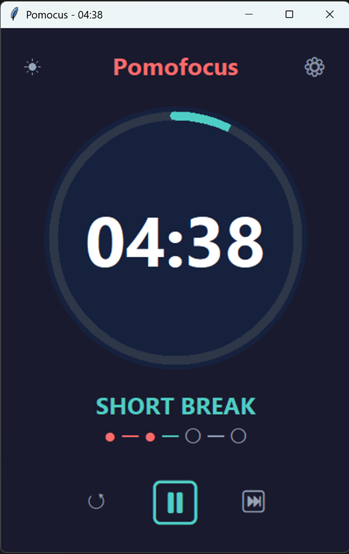
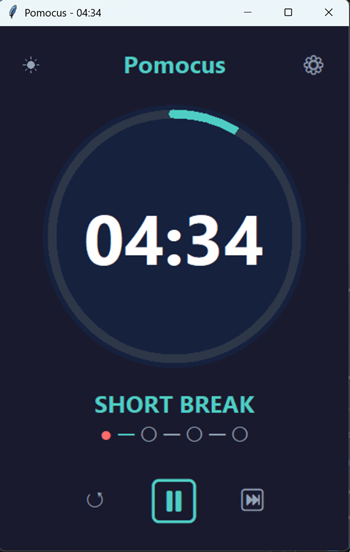
update readme and screenshots

diff --git a/src/ui.py b/src/ui.py
@@ -422,7 +422,7 @@ class PomocusUI:
         ToolTip(self.settings_btn, "Settings")
     
         # App Title (Centered Top)
-        self.title_label = tk.Label(self.root, text="Pomofocus", font=('Segoe UI', 20, 'bold'),
+        self.title_label = tk.Label(self.root, text="Pomocus", font=('Segoe UI', 20, 'bold'),
                                    bg=bg, fg=self.COLORS['work'])
         self.title_label.place(relx=0.5, y=42, anchor='center')
 
@@ -518,7 +518,6 @@ class PomocusUI:
         if self.logic:
             self._update_display()
 
-    
 
     
     def _on_resize(self, event):
@@ -595,10 +594,8 @@ class PomocusUI:
         self.start_button.config(text="▶")
         self._play_notification()
         self._flash_window()
-        
-        # Alerts removed as requested
-        # UI automatically updates via _on_mode_change
-    
+
+
     def _on_mode_change(self, mode: str):
         """Called when mode changes"""
         mode_config = {
@@ -606,13 +603,18 @@ class PomocusUI:
             'short_break': ("SHORT BREAK", self.COLORS['short_break']),
             'long_break': ("LONG BREAK", self.COLORS['long_break'])
         }
-        
+
         text, color = mode_config.get(mode, ("FOCUS TIME", self.COLORS['work']))
         self.mode_label.config(text=text, fg=color)
         self.start_button.config(fg=color, activeforeground=color)
         self.canvas.itemconfig(self.progress_arc, outline=color)
-        
+        # Add these lines:
+        if self.title_label:
+            self.title_label.config(fg=color)
+
         self._update_display()
+
+
     
     def _update_display(self):
         """Update all display elements"""

diff --git a/src/pomocus.py b/src/pomocus.py
@@ -91,8 +91,8 @@ class PomodoroLogic:
         
         if self.on_complete:
             self.on_complete(completed_mode)
-            
-        # Specific request: Auto start next timer
+
+        # Auto start next timer
         if self.auto_start:
             self.start()
     
@@ -120,8 +120,8 @@ class PomodoroLogic:
         self.long_break_duration = long_min
         self.long_break_interval = interval
         self.auto_start = auto_start
-        
-        # specific request: reset app flow
+
+        # reset app flow
         self.pomodoros_completed = 0
         self.is_running = False
         self.switch_mode('work')

diff --git a/README.md b/README.md
@@ -3,13 +3,16 @@
 Pomocus is yet another Pomodoro Focus Timer, built with Python and `tkinter`.
 Why should you use it? I don't know, but it's free, open source and I like it. It's also simple, just the time and its settings.
 
+## Download
+
+You can download the latest release from the [Releases](https://github.com/your-username/pomocus-py/releases) page.
+
 ## Screenshots
 
-| Dark theme | | | |
-|------------|---|---|---|
-| <img src="screenshots/screen-dark-1.png"> | <img src="screenshots/screen-dark-2.png"> | <img src="screenshots/screen-dark-3.png"> | <img src="screenshots/screen-dark-4.png"> |
-| Light theme | | | |
-|------------|---|---|---|
+| Dark theme                                 | | | |
+|--------------------------------------------|---|---|---|
+| <img src="screenshots/screen-dark-1.png">  | <img src="screenshots/screen-dark-2.png"> | <img src="screenshots/screen-dark-3.png"> | <img src="screenshots/screen-dark-4.png"> |
+| Light theme                                | | | |
 | <img src="screenshots/screen-light-1.png"> | <img src="screenshots/screen-light-2.png"> | <img src="screenshots/screen-light-3.png"> | <img src="screenshots/screen-light-4.png"> |
 
  
@@ -46,13 +49,14 @@ If you installed Python via Homebrew and `tkinter` is missing, install a python 
 There are no third-party dependencies.
  
 ## Run
- 
+
 From the project folder:
- 
+
 ```bash
-cd src
-python pomocus.py
+python pomocus_app.py
 ```
+
+(If you prefer the old way, you can still run `cd src && python pomocus.py`.)
 
 ## Build (PyInstaller)
 
@@ -69,16 +73,6 @@ pyinstaller --clean --noconfirm --name pomocus --windowed pomocus_app.py
 ```
 
 The output will be under `dist/`.
-
-## Release
-
-To create a GitHub Release with prebuilt artifacts, push a version tag like:
-
-```bash
-git tag v1.0.0
-git push origin v1.0.0
-```
-
 
 ## Usage
  
